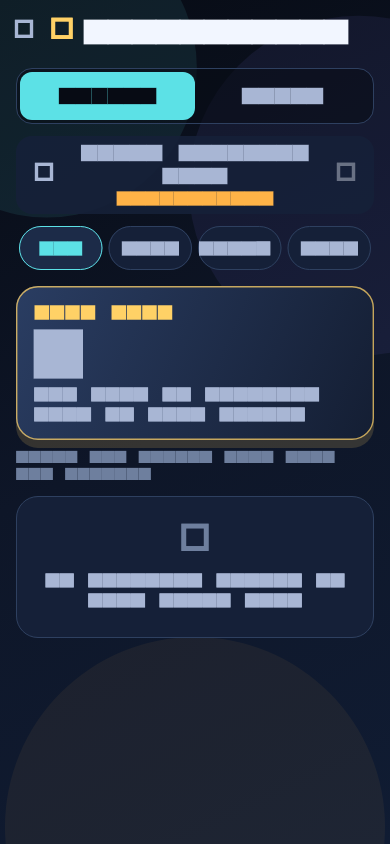
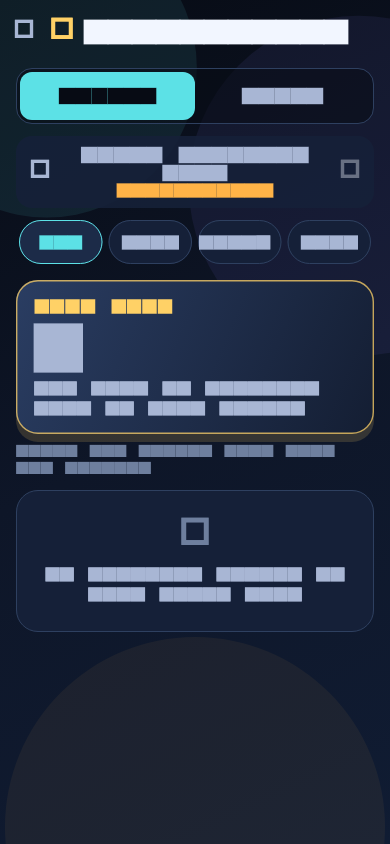
[PZD-42] Keep the leaderboard period row fixed and separate the home actions
Weekly and Daily now share one date-row height, and the home hero has more room above the action cards.

diff --git a/apps/mobile/lib/tournament/tournament_leaderboard_view.dart b/apps/mobile/lib/tournament/tournament_leaderboard_view.dart
@@ -232,26 +232,28 @@ final class _PeriodRow extends StatelessWidget {
     final older = weekly && index >= 0 && index + 1 < weeks.length ? weeks[index + 1] : null;
     final newer = weekly && index > 0 ? weeks[index - 1] : null;
     final finalWeek = controller.weeklyFinal;
-    return DecoratedBox(
-      decoration: BoxDecoration(
-        color: GameTokens.surface.withValues(alpha: 0.9),
-        borderRadius: BorderRadius.circular(GameTokens.radiusMd),
-      ),
-      child: Padding(
-        padding: const EdgeInsets.symmetric(horizontal: 4, vertical: 6),
+    return SizedBox(
+      key: const Key('period-row'),
+      height: 72,
+      child: DecoratedBox(
+        decoration: BoxDecoration(
+          color: GameTokens.surface.withValues(alpha: 0.9),
+          borderRadius: BorderRadius.circular(GameTokens.radiusMd),
+        ),
         child: Row(
           children: [
-            if (weekly)
-              IconButton(
+            _PeriodStep(
+              visible: weekly,
+              button: IconButton(
                 key: const Key('week-older'),
                 tooltip: copy.previousWeek,
                 onPressed: older == null ? null : () => controller.openWeekly(week: older),
                 icon: const Icon(Icons.chevron_left),
-              )
-            else
-              const SizedBox(width: 12),
+              ),
+            ),
             Expanded(
               child: Column(
+                mainAxisAlignment: MainAxisAlignment.center,
                 children: [
                   Text(
                     period,
@@ -259,30 +261,49 @@ final class _PeriodRow extends StatelessWidget {
                     textAlign: TextAlign.center,
                     maxLines: 2,
                     overflow: TextOverflow.ellipsis,
-                    style: const TextStyle(fontWeight: FontWeight.w800, fontSize: 16),
+                    style: const TextStyle(fontWeight: FontWeight.w800, fontSize: 16, height: 1.15),
                   ),
                   Text(
                     finalWeek ? copy.finalLabel : copy.provisional,
+                    maxLines: 1,
+                    overflow: TextOverflow.ellipsis,
                     style: TextStyle(
                       color: finalWeek ? GameTokens.success : GameTokens.triangleFill,
                       fontWeight: FontWeight.w800,
+                      height: 1.15,
                     ),
                   ),
                 ],
               ),
             ),
-            if (weekly)
-              IconButton(
+            _PeriodStep(
+              visible: weekly,
+              button: IconButton(
                 key: const Key('week-newer'),
                 tooltip: copy.newerWeek,
                 onPressed: newer == null ? null : () => controller.openWeekly(week: newer),
                 icon: const Icon(Icons.chevron_right),
-              )
-            else
-              const SizedBox(width: 12),
+              ),
+            ),
           ],
         ),
       ),
+    );
+  }
+}
+
+/// Reserves the arrow slot in both periods so Daily stays the same height.
+final class _PeriodStep extends StatelessWidget {
+  const _PeriodStep({required this.visible, required this.button});
+
+  final bool visible;
+  final Widget button;
+
+  @override
+  Widget build(BuildContext context) {
+    return SizedBox(
+      width: 48,
+      child: visible ? button : const SizedBox.shrink(),
     );
   }
 }

diff --git a/apps/mobile/test/tournament/tournament_navigation_test.dart b/apps/mobile/test/tournament/tournament_navigation_test.dart
@@ -106,9 +106,16 @@ void main() {
     await tester.pumpAndSettle();
     expect(find.byKey(const Key('board-weekly')), findsOneWidget);
     expect(find.text('Provisional'), findsOneWidget);
+    final weeklyPeriod = tester.getRect(find.byKey(const Key('period-row')));
+    final weeklyRank = tester.getTopLeft(find.byKey(const Key('self-rank')));
     await tester.tap(find.byKey(const Key('board-daily')));
     await tester.pumpAndSettle();
     expect(find.text('18 November 2026'), findsOneWidget);
+    final dailyPeriod = tester.getRect(find.byKey(const Key('period-row')));
+    final dailyRank = tester.getTopLeft(find.byKey(const Key('self-rank')));
+    expect(dailyPeriod.height, weeklyPeriod.height);
+    expect(dailyPeriod.top, weeklyPeriod.top);
+    expect(dailyRank.dy, weeklyRank.dy);
 
     await tester.tap(find.byKey(const Key('nav-back')));
     await tester.pumpAndSettle();

diff --git a/apps/mobile/lib/tournament/tournament_uat_app.dart b/apps/mobile/lib/tournament/tournament_uat_app.dart
@@ -378,7 +378,7 @@ final class _HomeScreen extends StatelessWidget {
                 action: primary,
                 onAction: phase == DayPhase.completed ? controller.openResults : controller.resume,
               ),
-              const SizedBox(height: 16),
+              const SizedBox(height: 32),
               _HomeActions(controller: controller),
             ],
           ),
